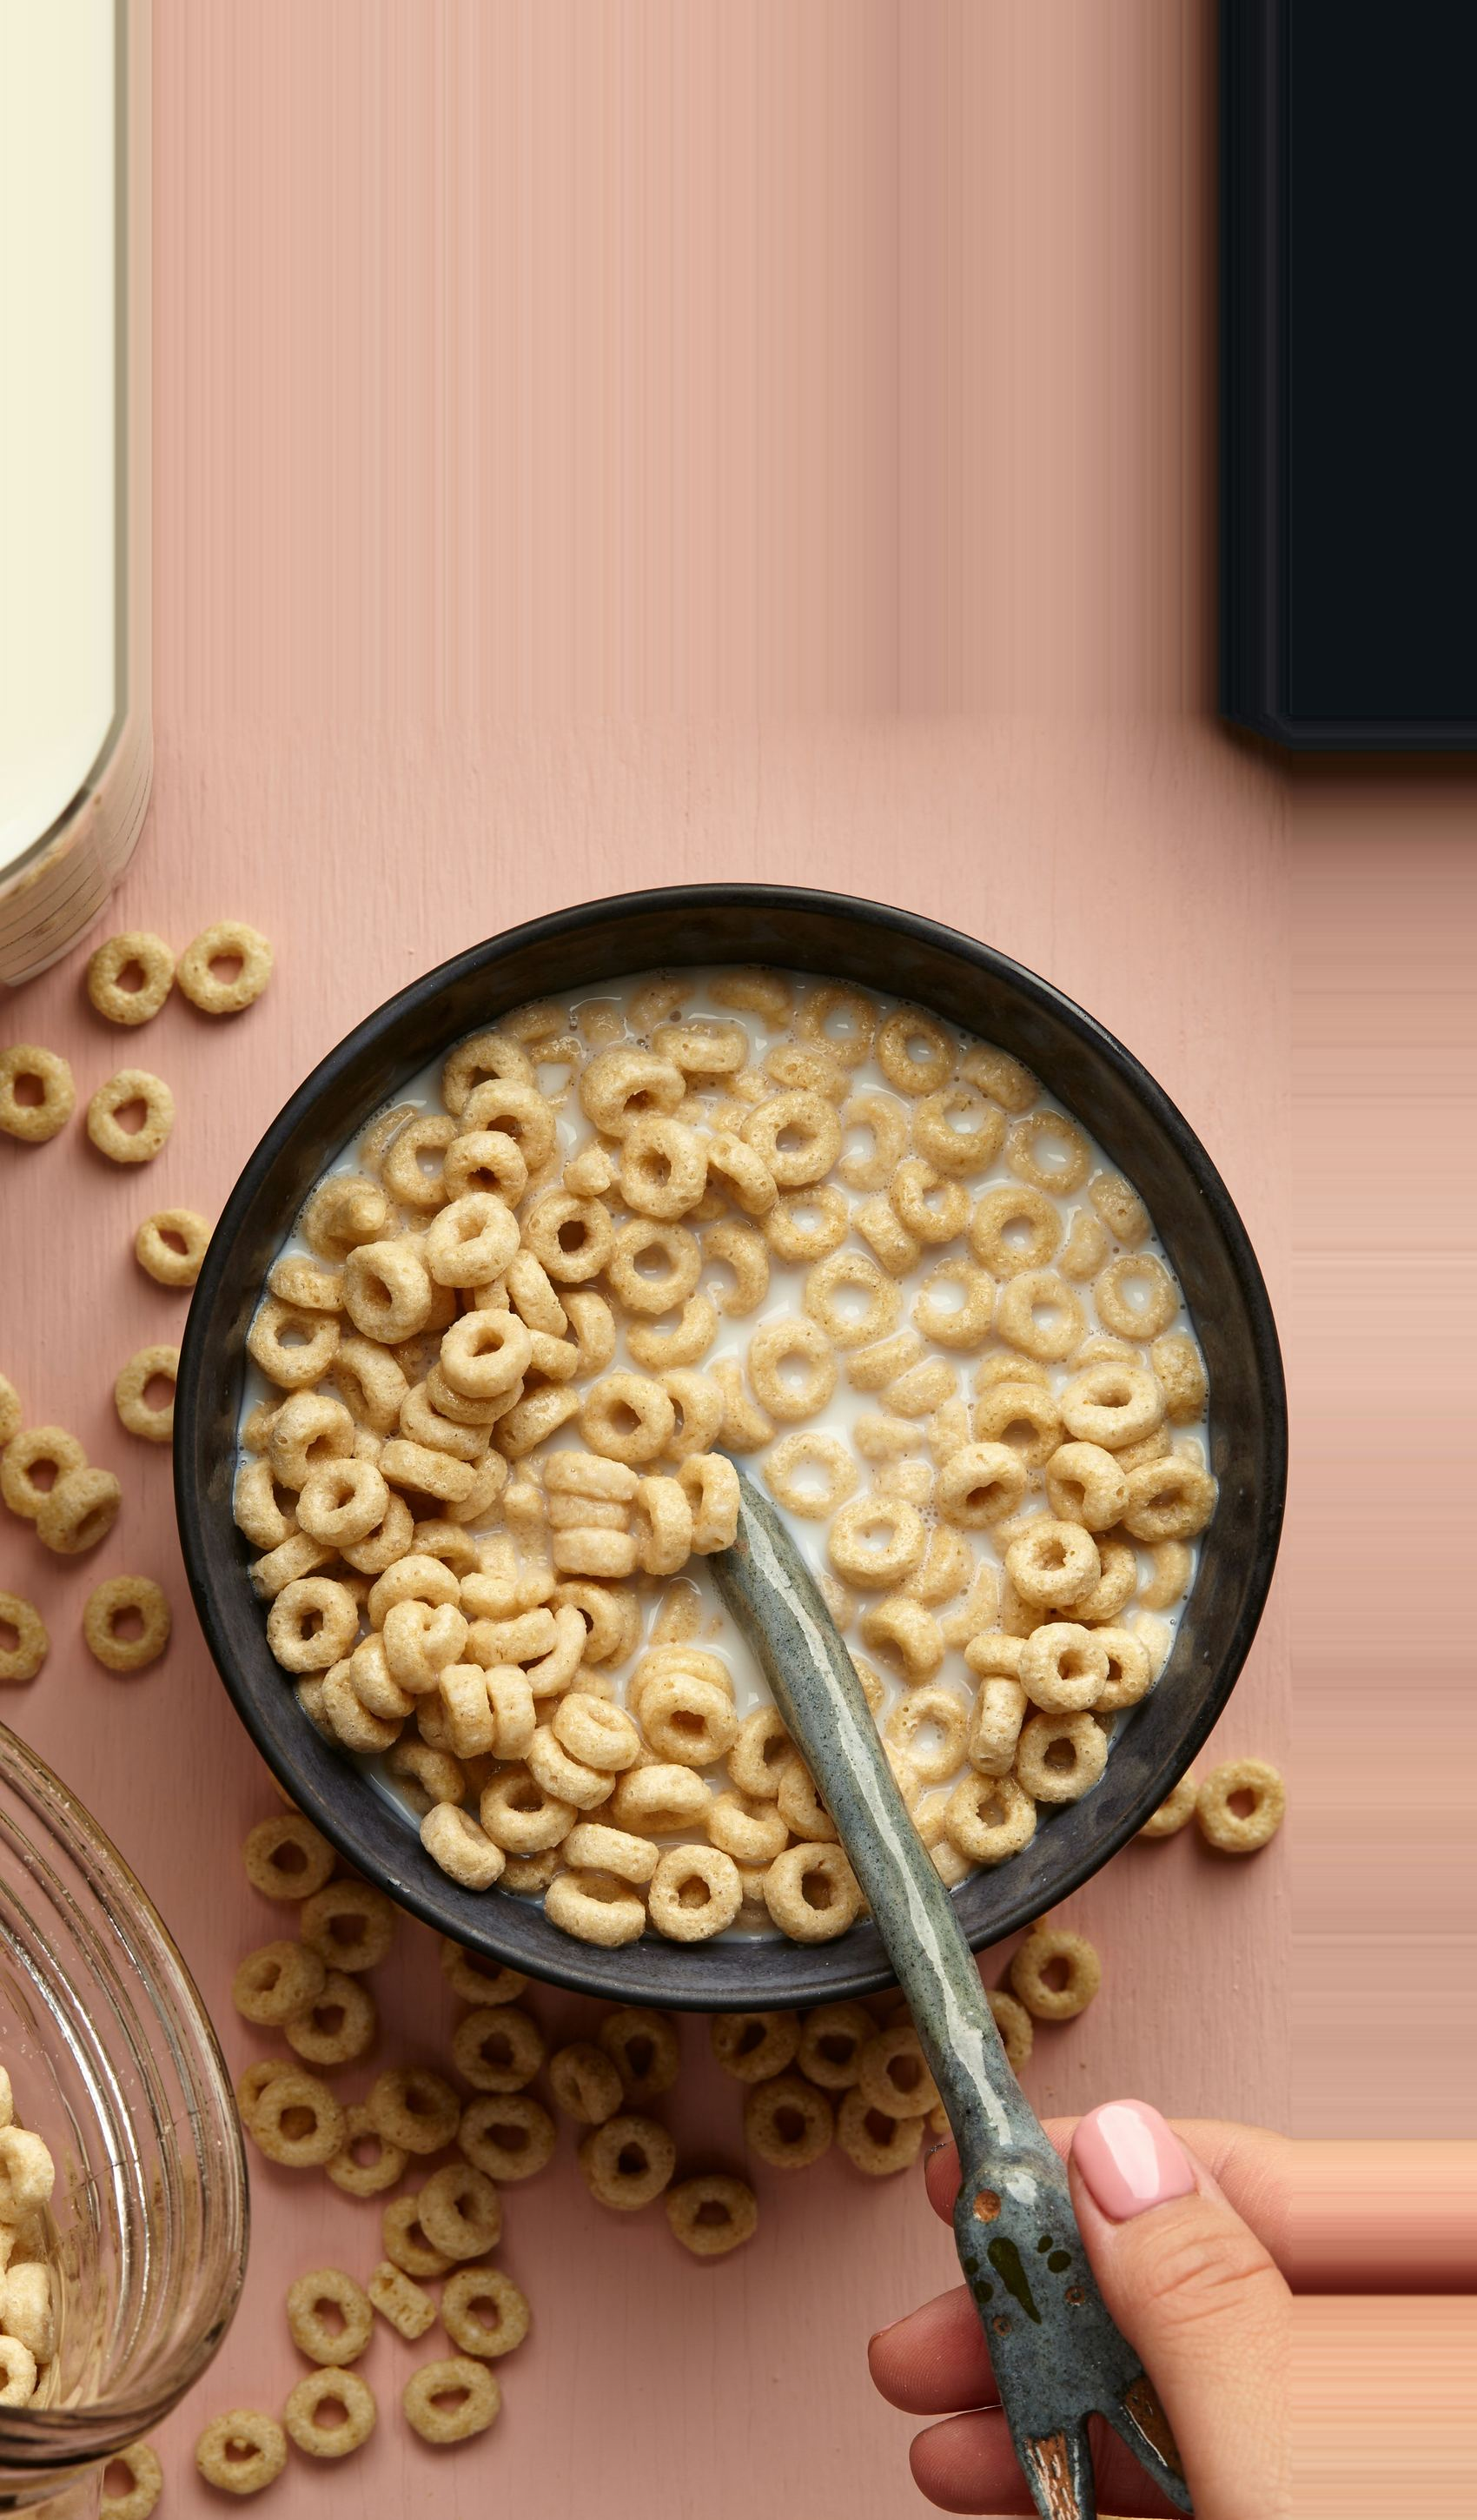
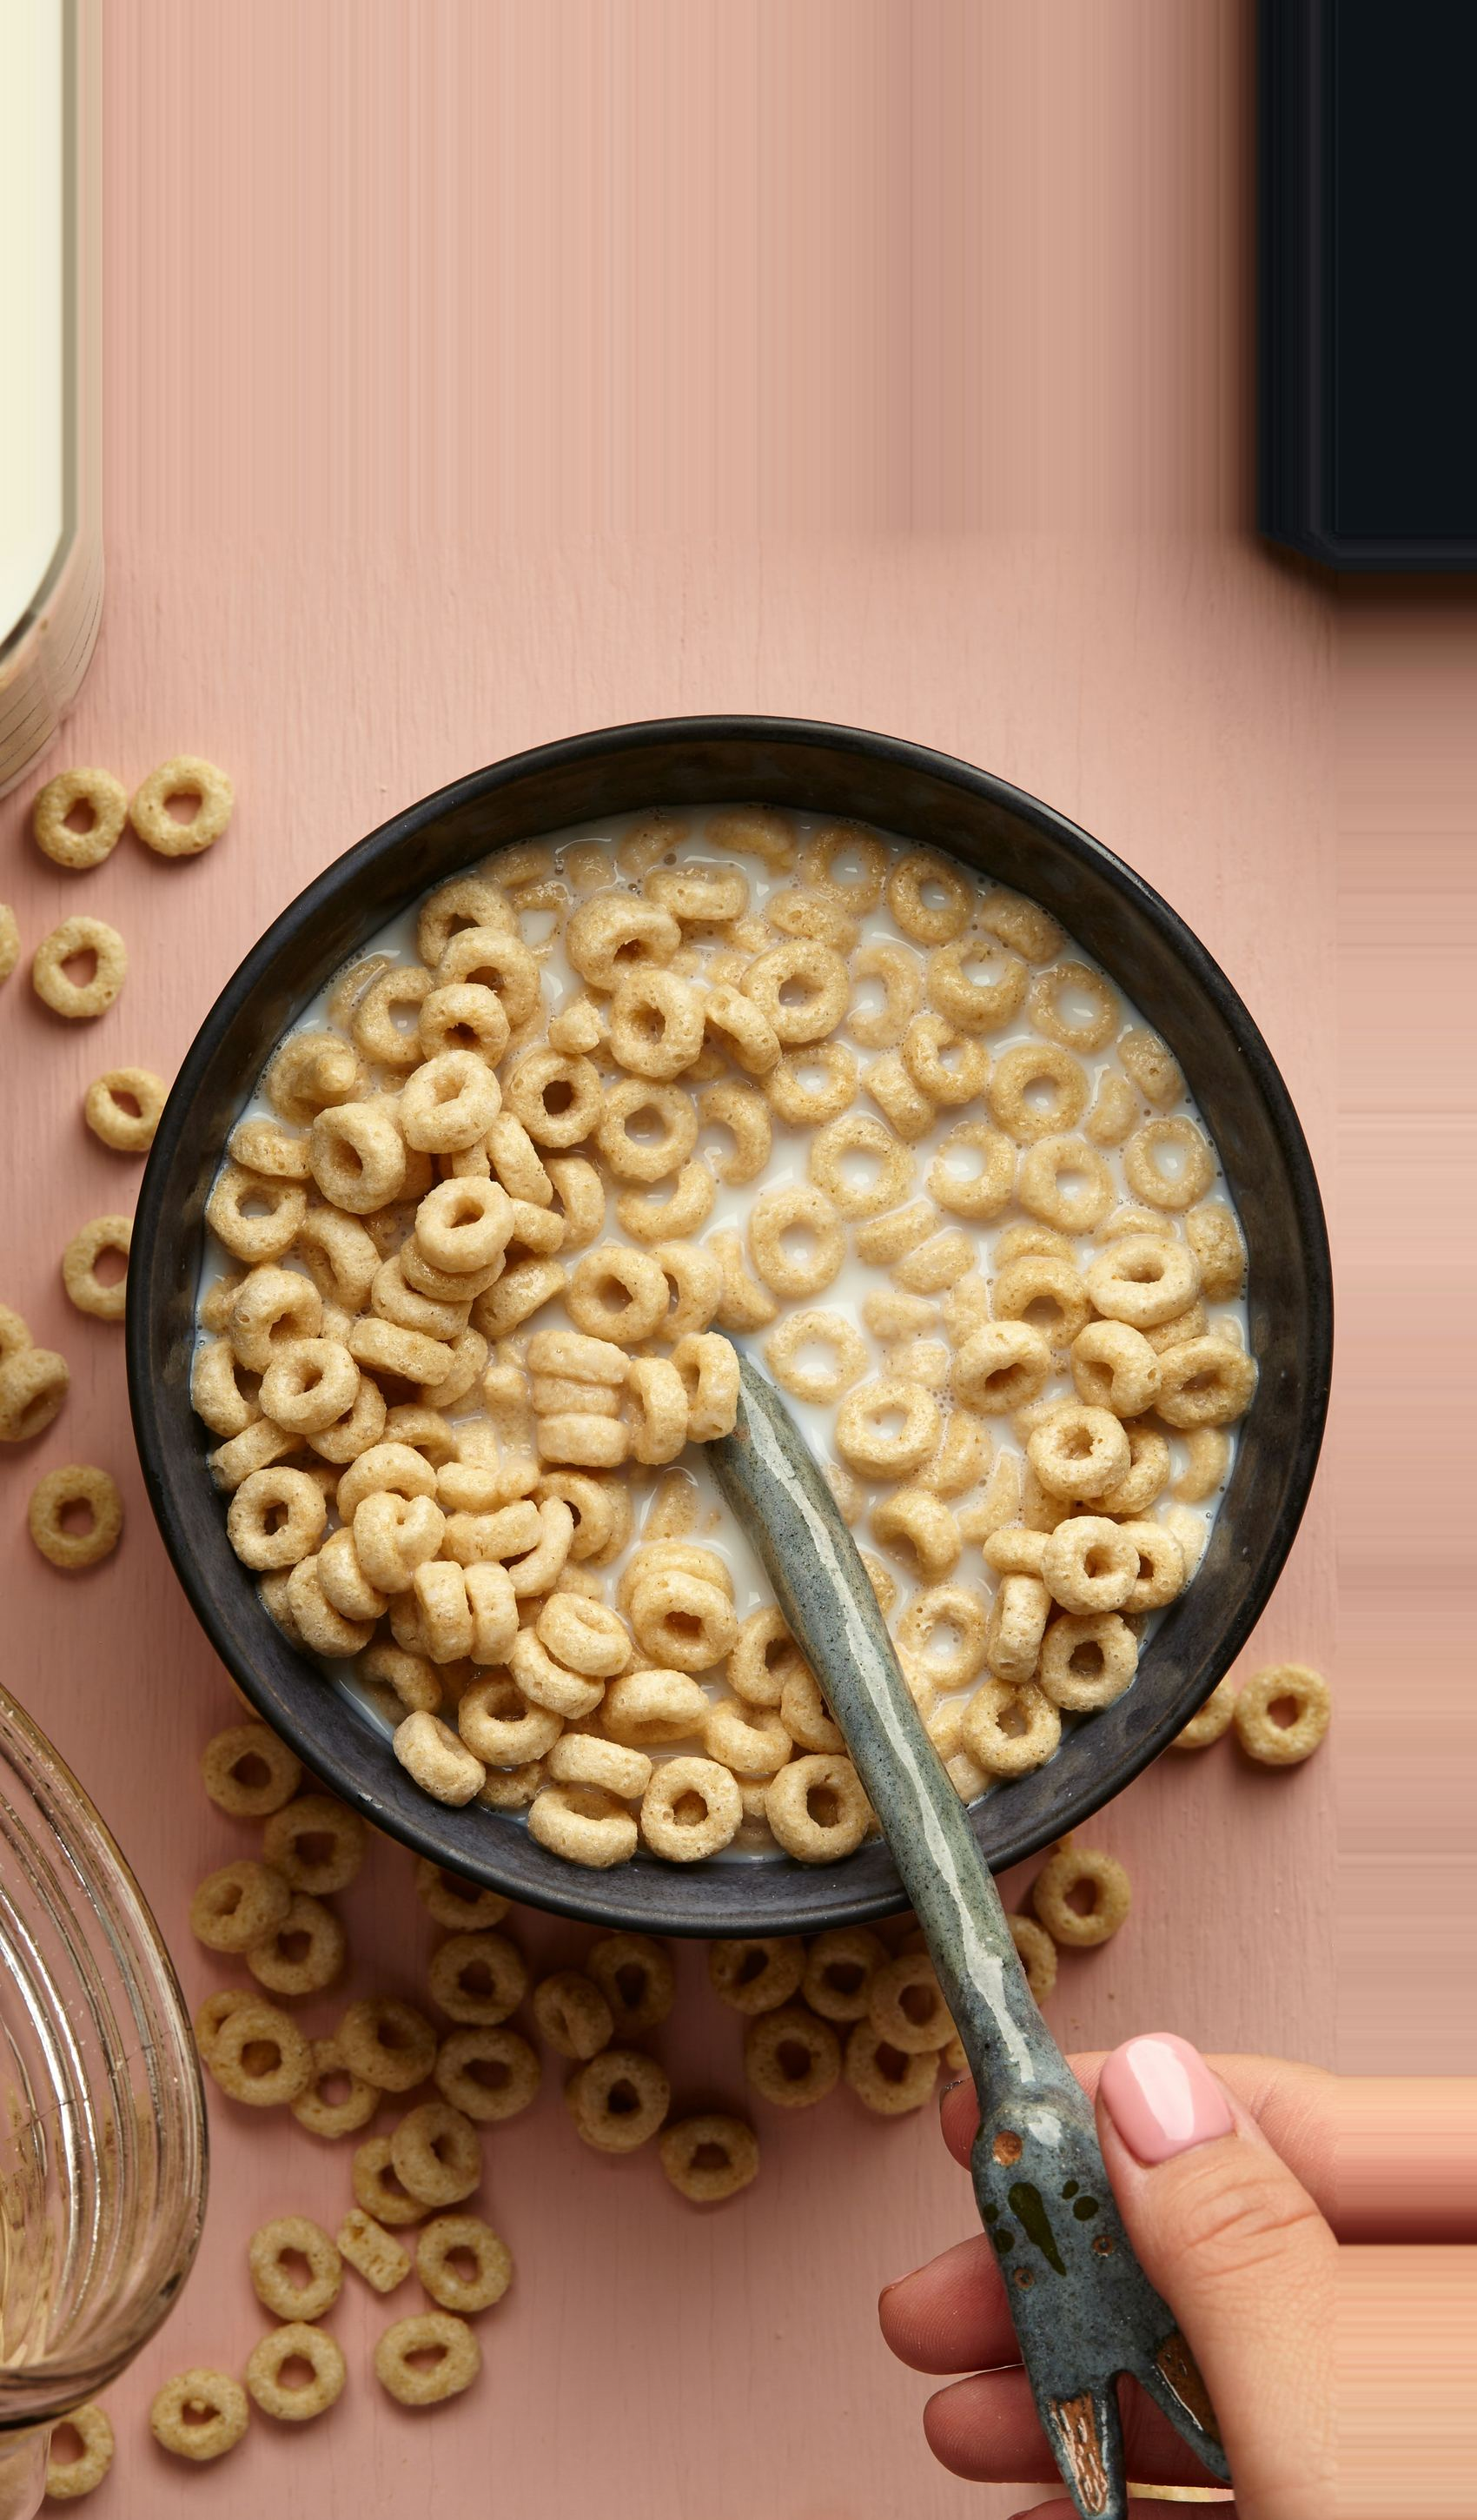
Scan screen: buttons to top, bowl slid up, background opacity +25%
The two scan buttons were vertically centred, landing right on the
background bowl's rim, which also forced a dead flat band at the top.
Top-aligning them clears the bowl entirely and let the bowl slide up
(flat band 28% -> 21%, now hidden behind the buttons anyway).

Bowl also enlarged 72% -> 78% of width. Background opacity raised 25%
relative now the dark rim gives real tonal separation:
dark .40 -> .50, light .48 -> .60. CACHE_NAME v36->v37.

diff --git a/css/style.css b/css/style.css
@@ -15,7 +15,7 @@
   --btn-bg: color-mix(in srgb, var(--surface) 30%, transparent);
   /* Opacity of the blurred cereal background (body::before). Single knob —
      turn it up for a stronger photo, down to fade it out. */
-  --bg-photo-opacity: .48;
+  --bg-photo-opacity: .60;
 }
 @media (prefers-color-scheme: dark) {
   :root {
@@ -27,7 +27,7 @@
     --accent-text: #0d201c;
     --shadow: 0 2px 8px rgba(0,0,0,.4);
     /* A bright breakfast photo fights a dark theme harder — keep it fainter. */
-    --bg-photo-opacity: .40;
+    --bg-photo-opacity: .50;
   }
 }
 
@@ -92,7 +92,10 @@ table.list th { color: var(--text-muted); font-weight: 600; }
    give the buttons something to rest on when the background was flat — the
    cereal photo now does that job, so the box is gone to avoid competing with
    it. */
-#scan-idle { display: flex; flex-direction: column; align-items: center; justify-content: center; gap: 12px; min-height: 60vh; margin: 12px; padding: 24px 16px; }
+/* Buttons sit at the TOP of the scan area, not centred: centred they landed
+   right on the background bowl's rim. Top-aligned they clear it entirely —
+   buttons under the header, bowl owning the middle, nav strip at the bottom. */
+#scan-idle { display: flex; flex-direction: column; align-items: center; justify-content: flex-start; gap: 12px; min-height: 60vh; margin: 12px; padding: 24px 16px; }
 /* Primary action — same translucent family as the rest (solid mint fought the
    background), kept primary by SIZE: larger text + padding, not a loud fill.
    box-sizing + shared width so it and the gallery button align to one column. */

diff --git a/sw.js b/sw.js
@@ -1,4 +1,4 @@
-const CACHE_NAME = 'food-diary-v36';
+const CACHE_NAME = 'food-diary-v37';
 const SHELL_FILES = [
   './',
   './index.html',